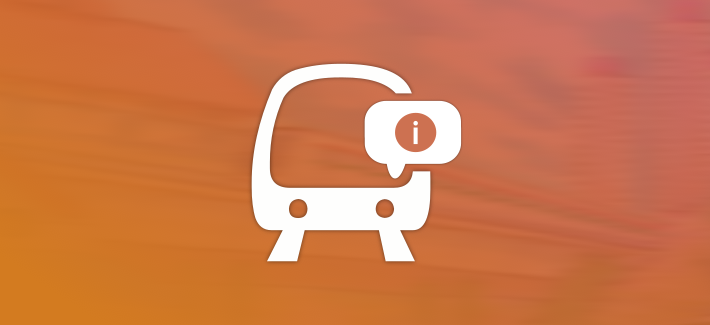
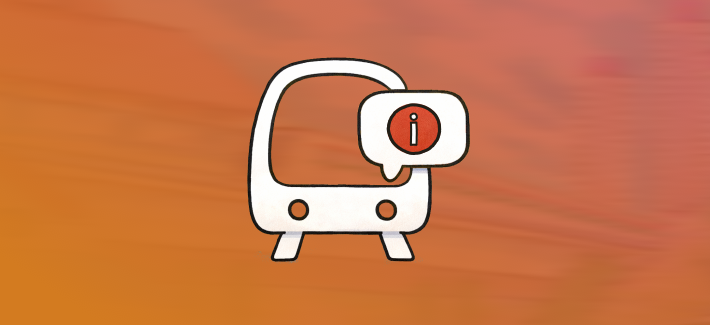
2026-06 Feature Update for FinTrack

Changed region(s): [[0.3408, 0.1538, 0.6817, 0.8308]]

diff --git a/fin-track/css/finTrack.css b/fin-track/css/finTrack.css
@@ -1,3 +1,10 @@
+ .nav-link.active {
+    background: #007093;
+    background: linear-gradient(90deg, #42c07e 0%, #239690 100%);
+    box-shadow: inset 0 1px 0 rgba(255, 255, 255, 0.3), 0 4px 12px rgba(0, 0, 0, 0.1);
+    color: #fff;
+}
+ 
  #cv-ft {
      background-color: #107d9c;
      background-size: cover;
@@ -205,7 +212,7 @@
  }
 
  .month-btn.active {
-     background: linear-gradient(84deg, rgba(81, 167, 190, 1) 0%, rgba(53, 64, 117, 1) 100%) !important;
+     background: linear-gradient(90deg, #42c07e 0%, #239690 100%) !important;
      color: #fff;
  }
 
@@ -825,7 +832,7 @@
  }
 
  .sht-btn-primary {
-     background: linear-gradient(84deg, rgba(81, 167, 190, 1) 0%, rgba(53, 64, 117, 1) 100%);
+     background: linear-gradient(90deg, #42c07e 0%, #239690 100%);
      color: #fff;
      box-shadow: 0 4px 12px rgba(0, 0, 0, 0.15);
  }
@@ -1455,7 +1462,7 @@
  }
 
  .settings-btn-primary {
-     background: linear-gradient(84deg, rgba(81, 167, 190, 1) 0%, rgba(53, 64, 117, 1) 100%);
+     background: linear-gradient(90deg, #42c07e 0%, #239690 100%);
      color: #fff;
      box-shadow: 0 4px 12px rgba(0, 0, 0, 0.15);
  }

diff --git a/fin-track/menu.html b/fin-track/menu.html
@@ -12,7 +12,7 @@
     <meta content="" name="keywords">
     <meta property="og:image" content="https://i.imgur.com/i8n9KYs.png" />
 
-    <link rel="icon" href="../rail-buddy/assets/icon-512.png">
+    <link rel="icon" href="./assets/icon-512.png">
 
     <script src="https://kit.fontawesome.com/965e82ac01.js" crossorigin="anonymous"></script>
 
@@ -408,7 +408,7 @@
     <nav class="navbar-container">
         <div class="navbar">
             <a href="../index.html">
-                <img src="../img/core-img/logo.png" alt="logo" class="logo" onerror="this.style.display='none'">
+                <img src="assets/logo.png" alt="logo" class="logo" onerror="this.style.display='none'">
             </a>
             <ul class="navbar-nav" id="navbarNav">
                 <li class="nav-item">

diff --git a/fin-track/index.html b/fin-track/index.html
@@ -18,6 +18,7 @@
     <link rel="stylesheet" href="../css/style-breakpoints.css">
     <link rel="stylesheet" href="../css/dark-mode.css">
 
+    <link rel="icon" href="./assets/icon-192.png" type="image/png">
 
 </head>
 <body>
@@ -34,7 +35,7 @@
     <nav class="navbar-container">
         <div class="navbar">
             <a href="../index.html">
-                <img src="../img/core-img/logo.png" alt="logo" class="logo" onerror="this.style.display='none'">
+                <img src="assets/logo.png" alt="logo" class="logo" onerror="this.style.display='none'">
             </a>
             <ul class="navbar-nav" id="navbarNav">
                 <li class="nav-item">

diff --git a/fin-track/settings.html b/fin-track/settings.html
@@ -50,7 +50,7 @@
     <nav class="navbar-container">
         <div class="navbar">
             <a href="../index.html">
-                <img src="../img/core-img/logo.png" alt="logo" class="logo" onerror="this.style.display='none'">
+                <img src="assets/logo.png" alt="logo" class="logo" onerror="this.style.display='none'">
             </a>
             <ul class="navbar-nav" id="navbarNav">
                 <li class="nav-item">

diff --git a/index.html b/index.html
@@ -476,7 +476,7 @@
                                     class="app-thumbnail">
                             </div>
                             <div class="app-content">
-                                <h3 class="app-name">FinTrack - Manage your finances effortlessly</h3>
+                                <h3 class="app-name">FinTrack - Track your finances effortlessly</h3>
                                 <div class="app-actions">
                                 </div>
                             </div>